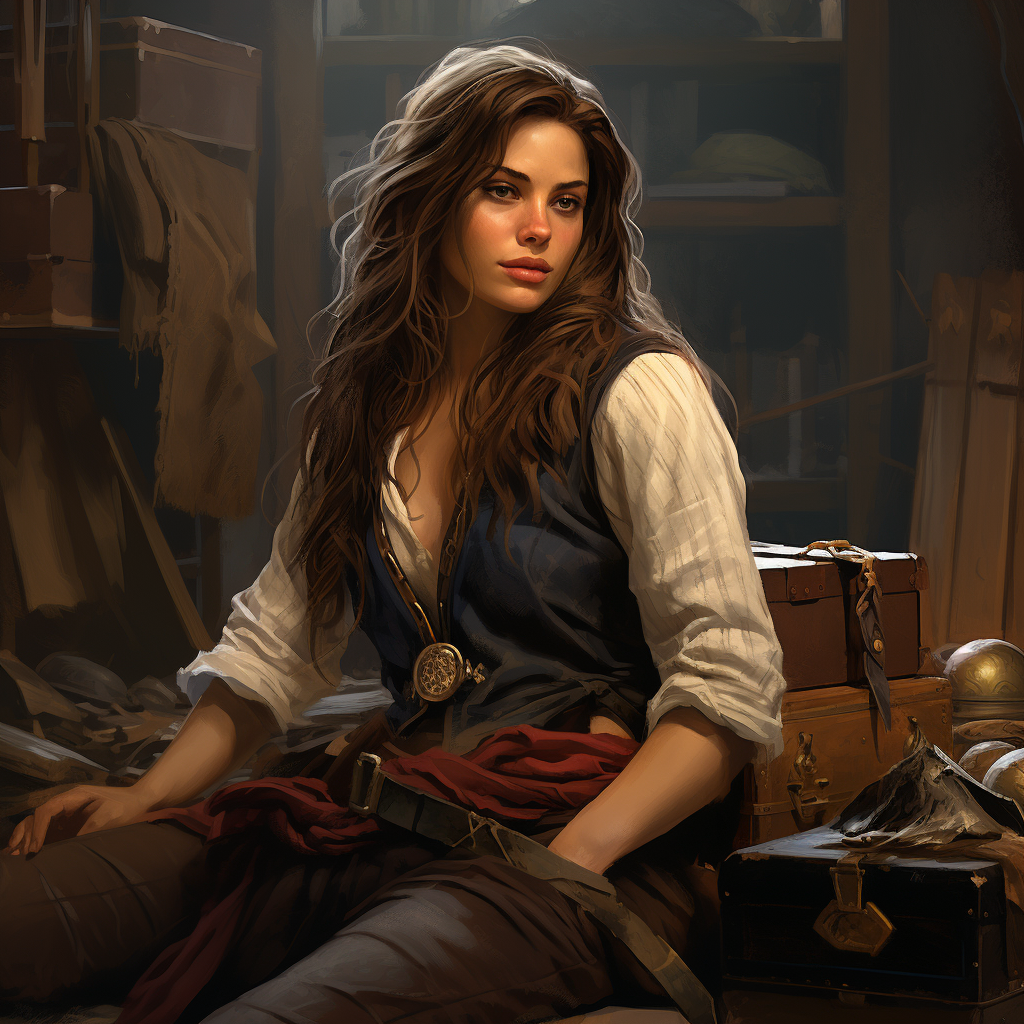
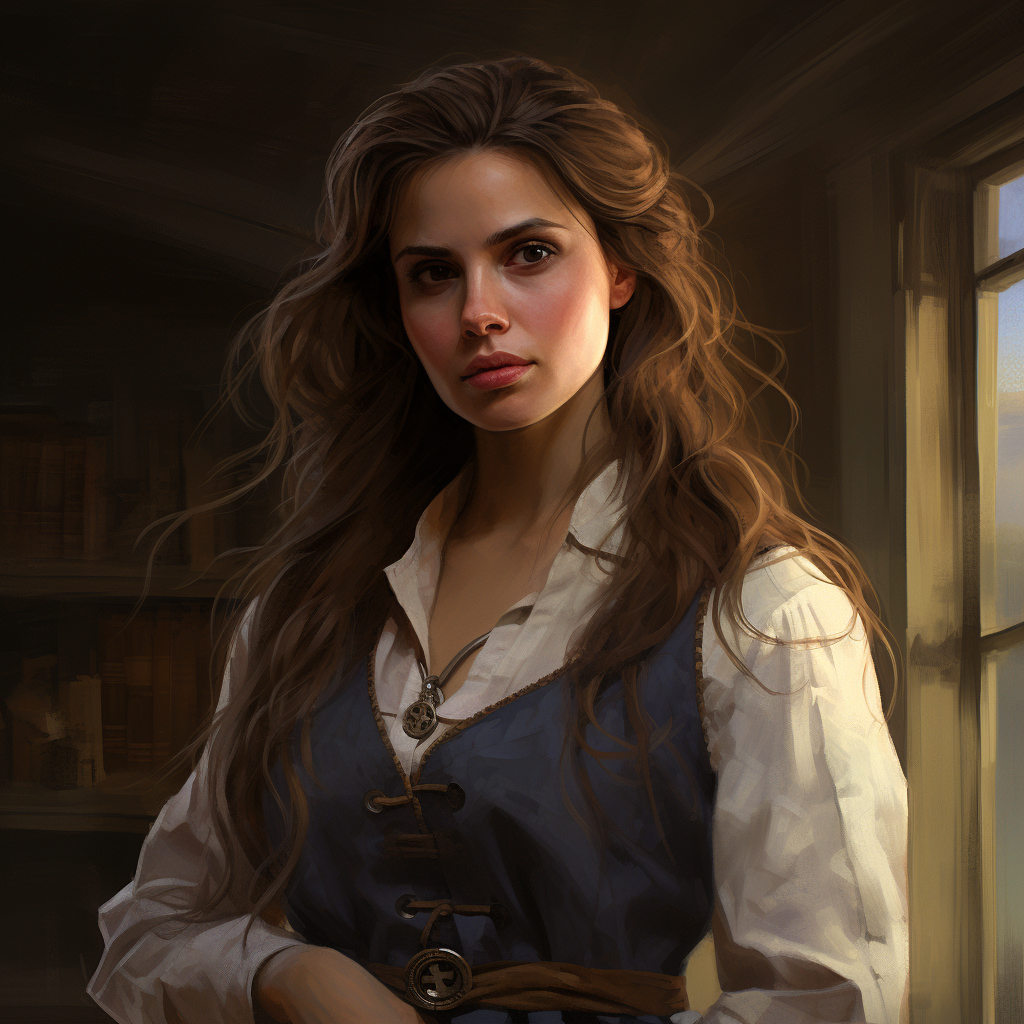
Update Zoe image & occupation

diff --git a/src/features/villager/constants.ts b/src/features/villager/constants.ts
@@ -284,7 +284,7 @@ export const ID_TO_VILLAGER: Record<number, Villager> = {
     occupation: "Swede",
     description:
       "A Swede, hailing from the enchanting lands of Sweden, embodies a blend of warmth and stoic resilience. With fair skin and often light hair, they exude a sense of tranquility and understated elegance. Grounded in a rich cultural heritage, Swedes embrace a balance of tradition and progress, valuing societal harmony and egalitarian values. They find solace in nature, embracing the beauty of their pristine landscapes. Known for their warmth, hospitality, and fika (coffee break) culture, Swedes create an inviting atmosphere, fostering a sense of community that reflects their enduring spirit and appreciation for life's simple pleasures.",
-    specialty: "Healer",
+    specialty: "Scout",
     canRecruit: true,
     requirements: NO_VILLAGER_REQUIREMENTS,
     gatherResources: NO_RESOURCES,
@@ -522,10 +522,10 @@ export const ID_TO_VILLAGER: Record<number, Villager> = {
   22: {
     id: 22,
     name: "Zoarino",
-    occupation: "Archeologist",
+    occupation: "Doctor",
     description:
-      "An archaeologist, draped in layers of dust and history, delves into the depths of ancient civilizations. With a keen eye and meticulous precision, they unearth artifacts and fragments that whisper tales of bygone eras. Armed with brushes and trowels, they carefully extract remnants from the earth's embrace, piecing together the puzzle of human history. Their scholarly passion transcends time, deciphering inscriptions and unraveling cultural mysteries. With each discovery, they breathe life into forgotten narratives, offering glimpses into the rich tapestry of humanity's past. An archaeologist's presence is a bridge between worlds, connecting us to the marvels and enigmas of ancient civilizations.",
-    specialty: "Scout",
+      "A doctor is a highly trained medical professional who diagnoses and treats illnesses, injuries, and medical conditions. With extensive knowledge and expertise, doctors provide healthcare and support to patients, employing various medical interventions, therapies, and medications to improve well-being and save lives.",
+    specialty: "Healer",
     canRecruit: true,
     requirements: NO_VILLAGER_REQUIREMENTS,
     gatherResources: NO_RESOURCES,
